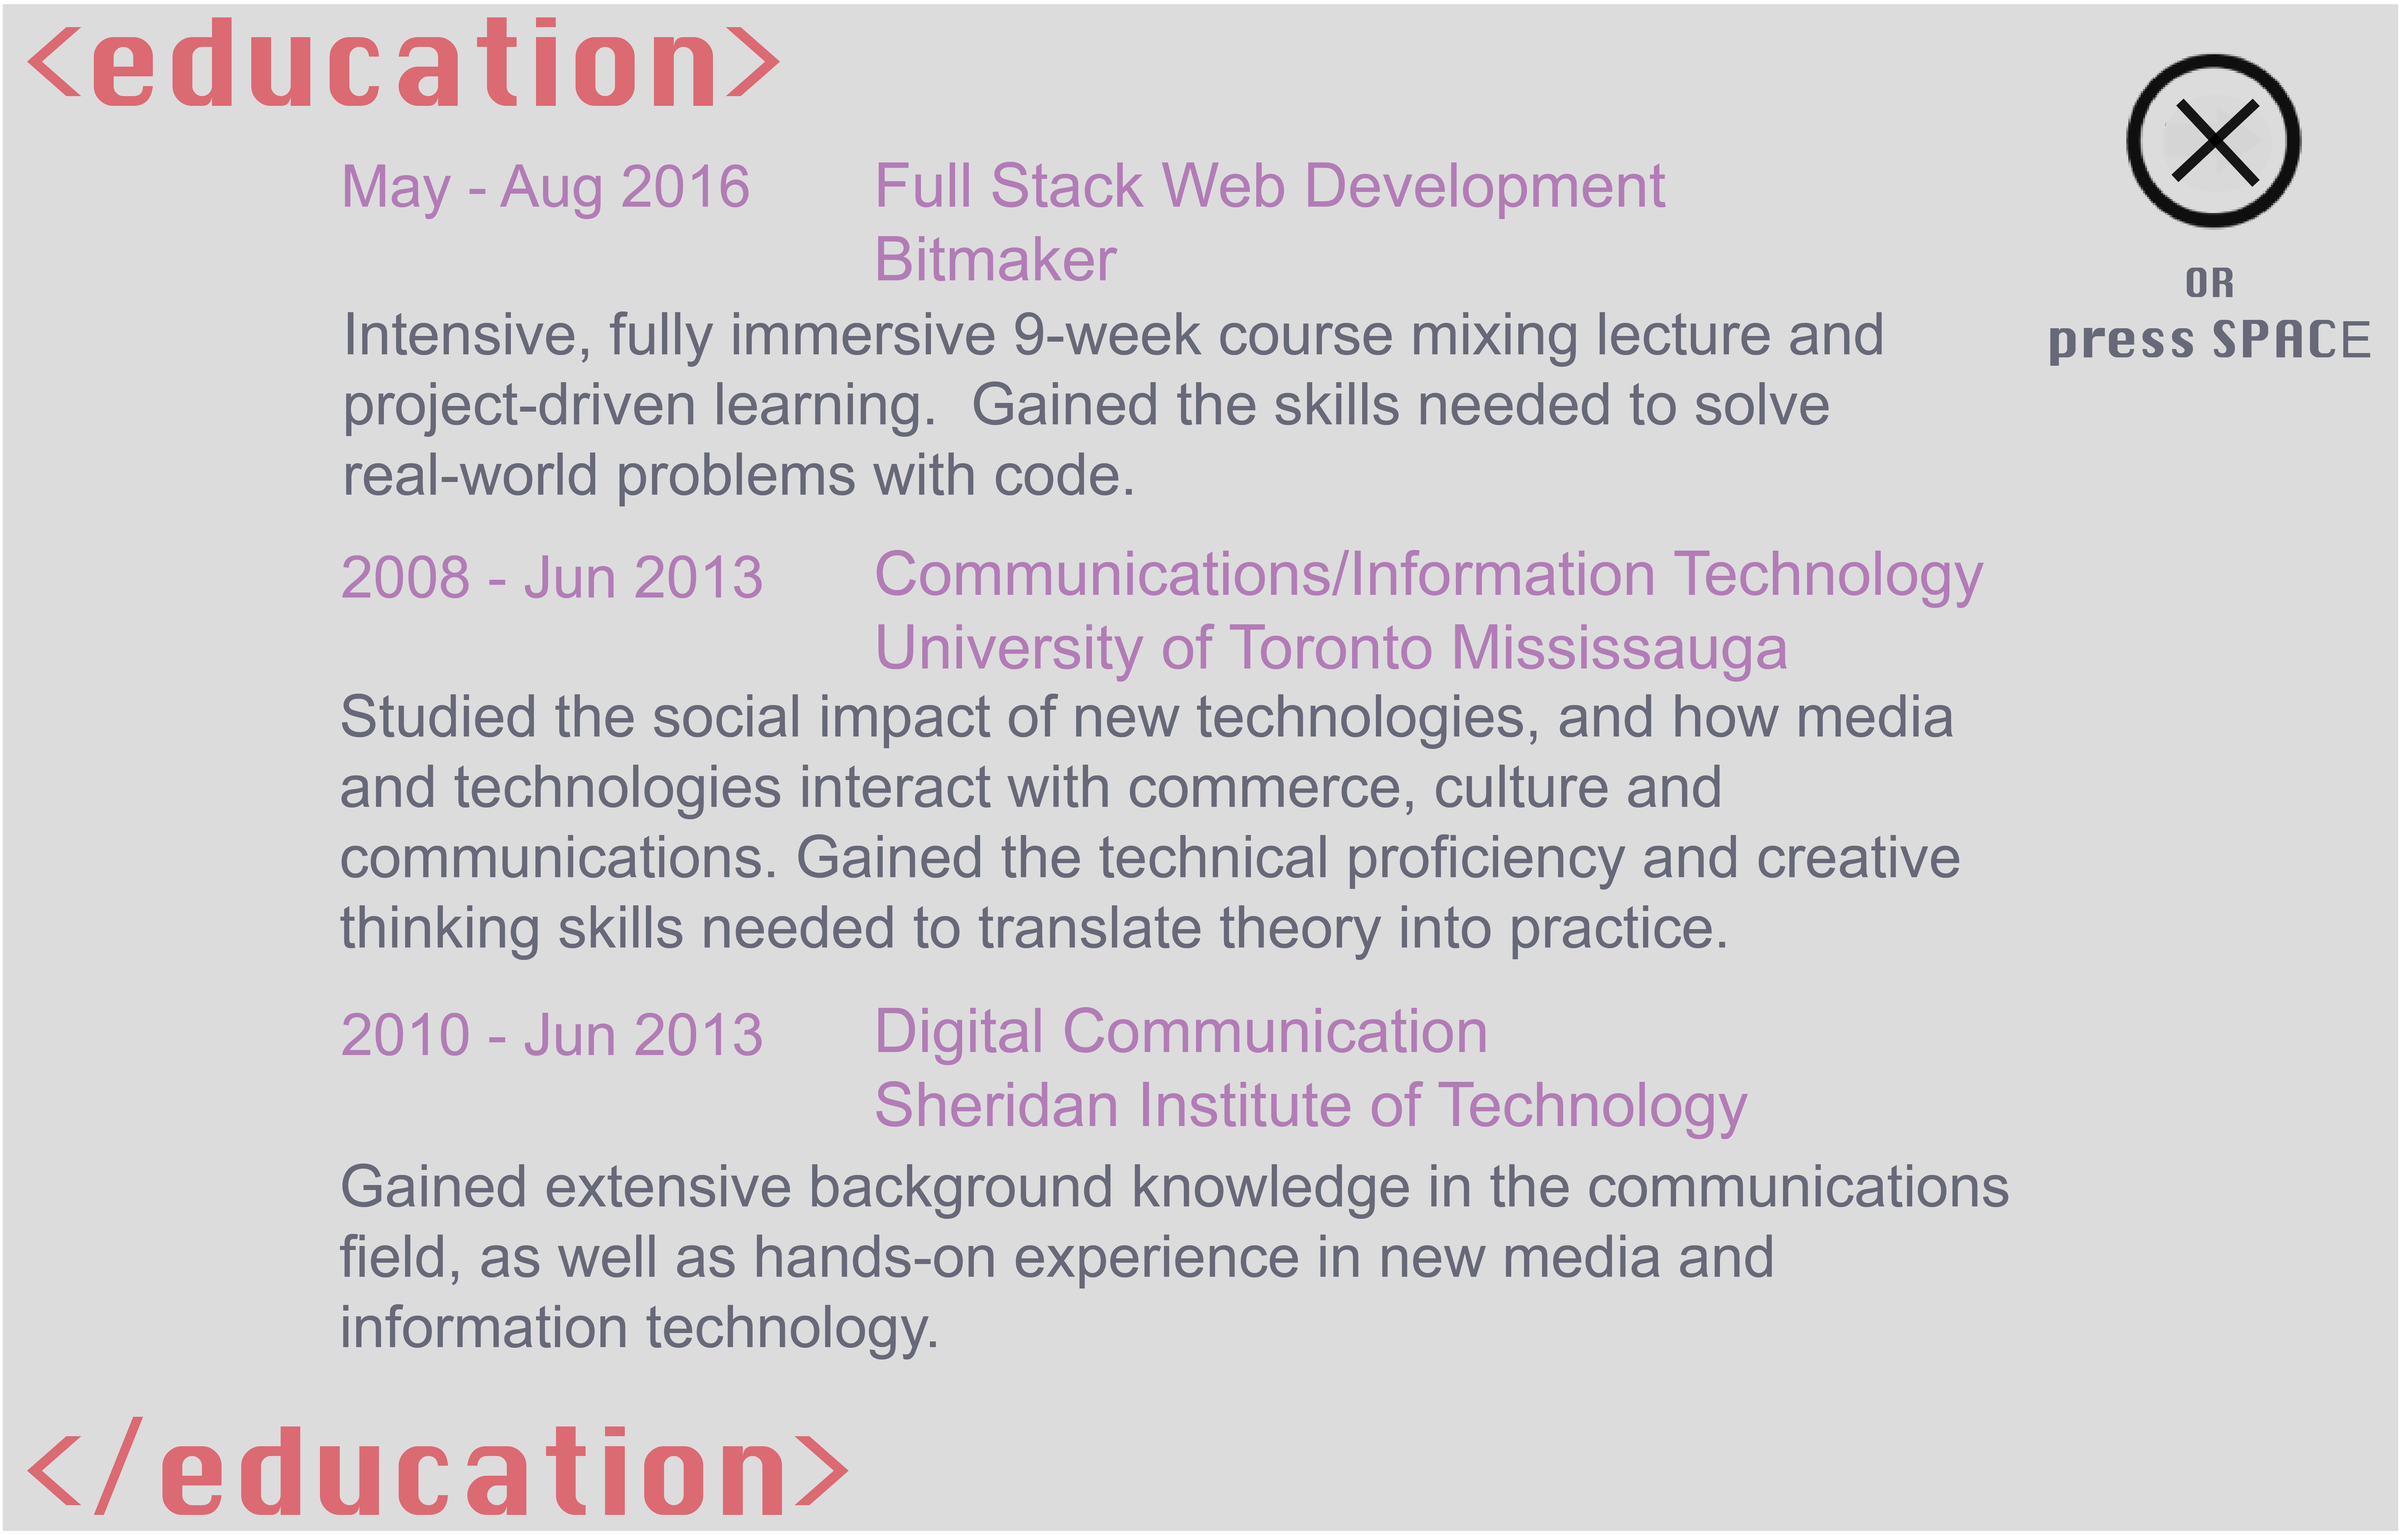
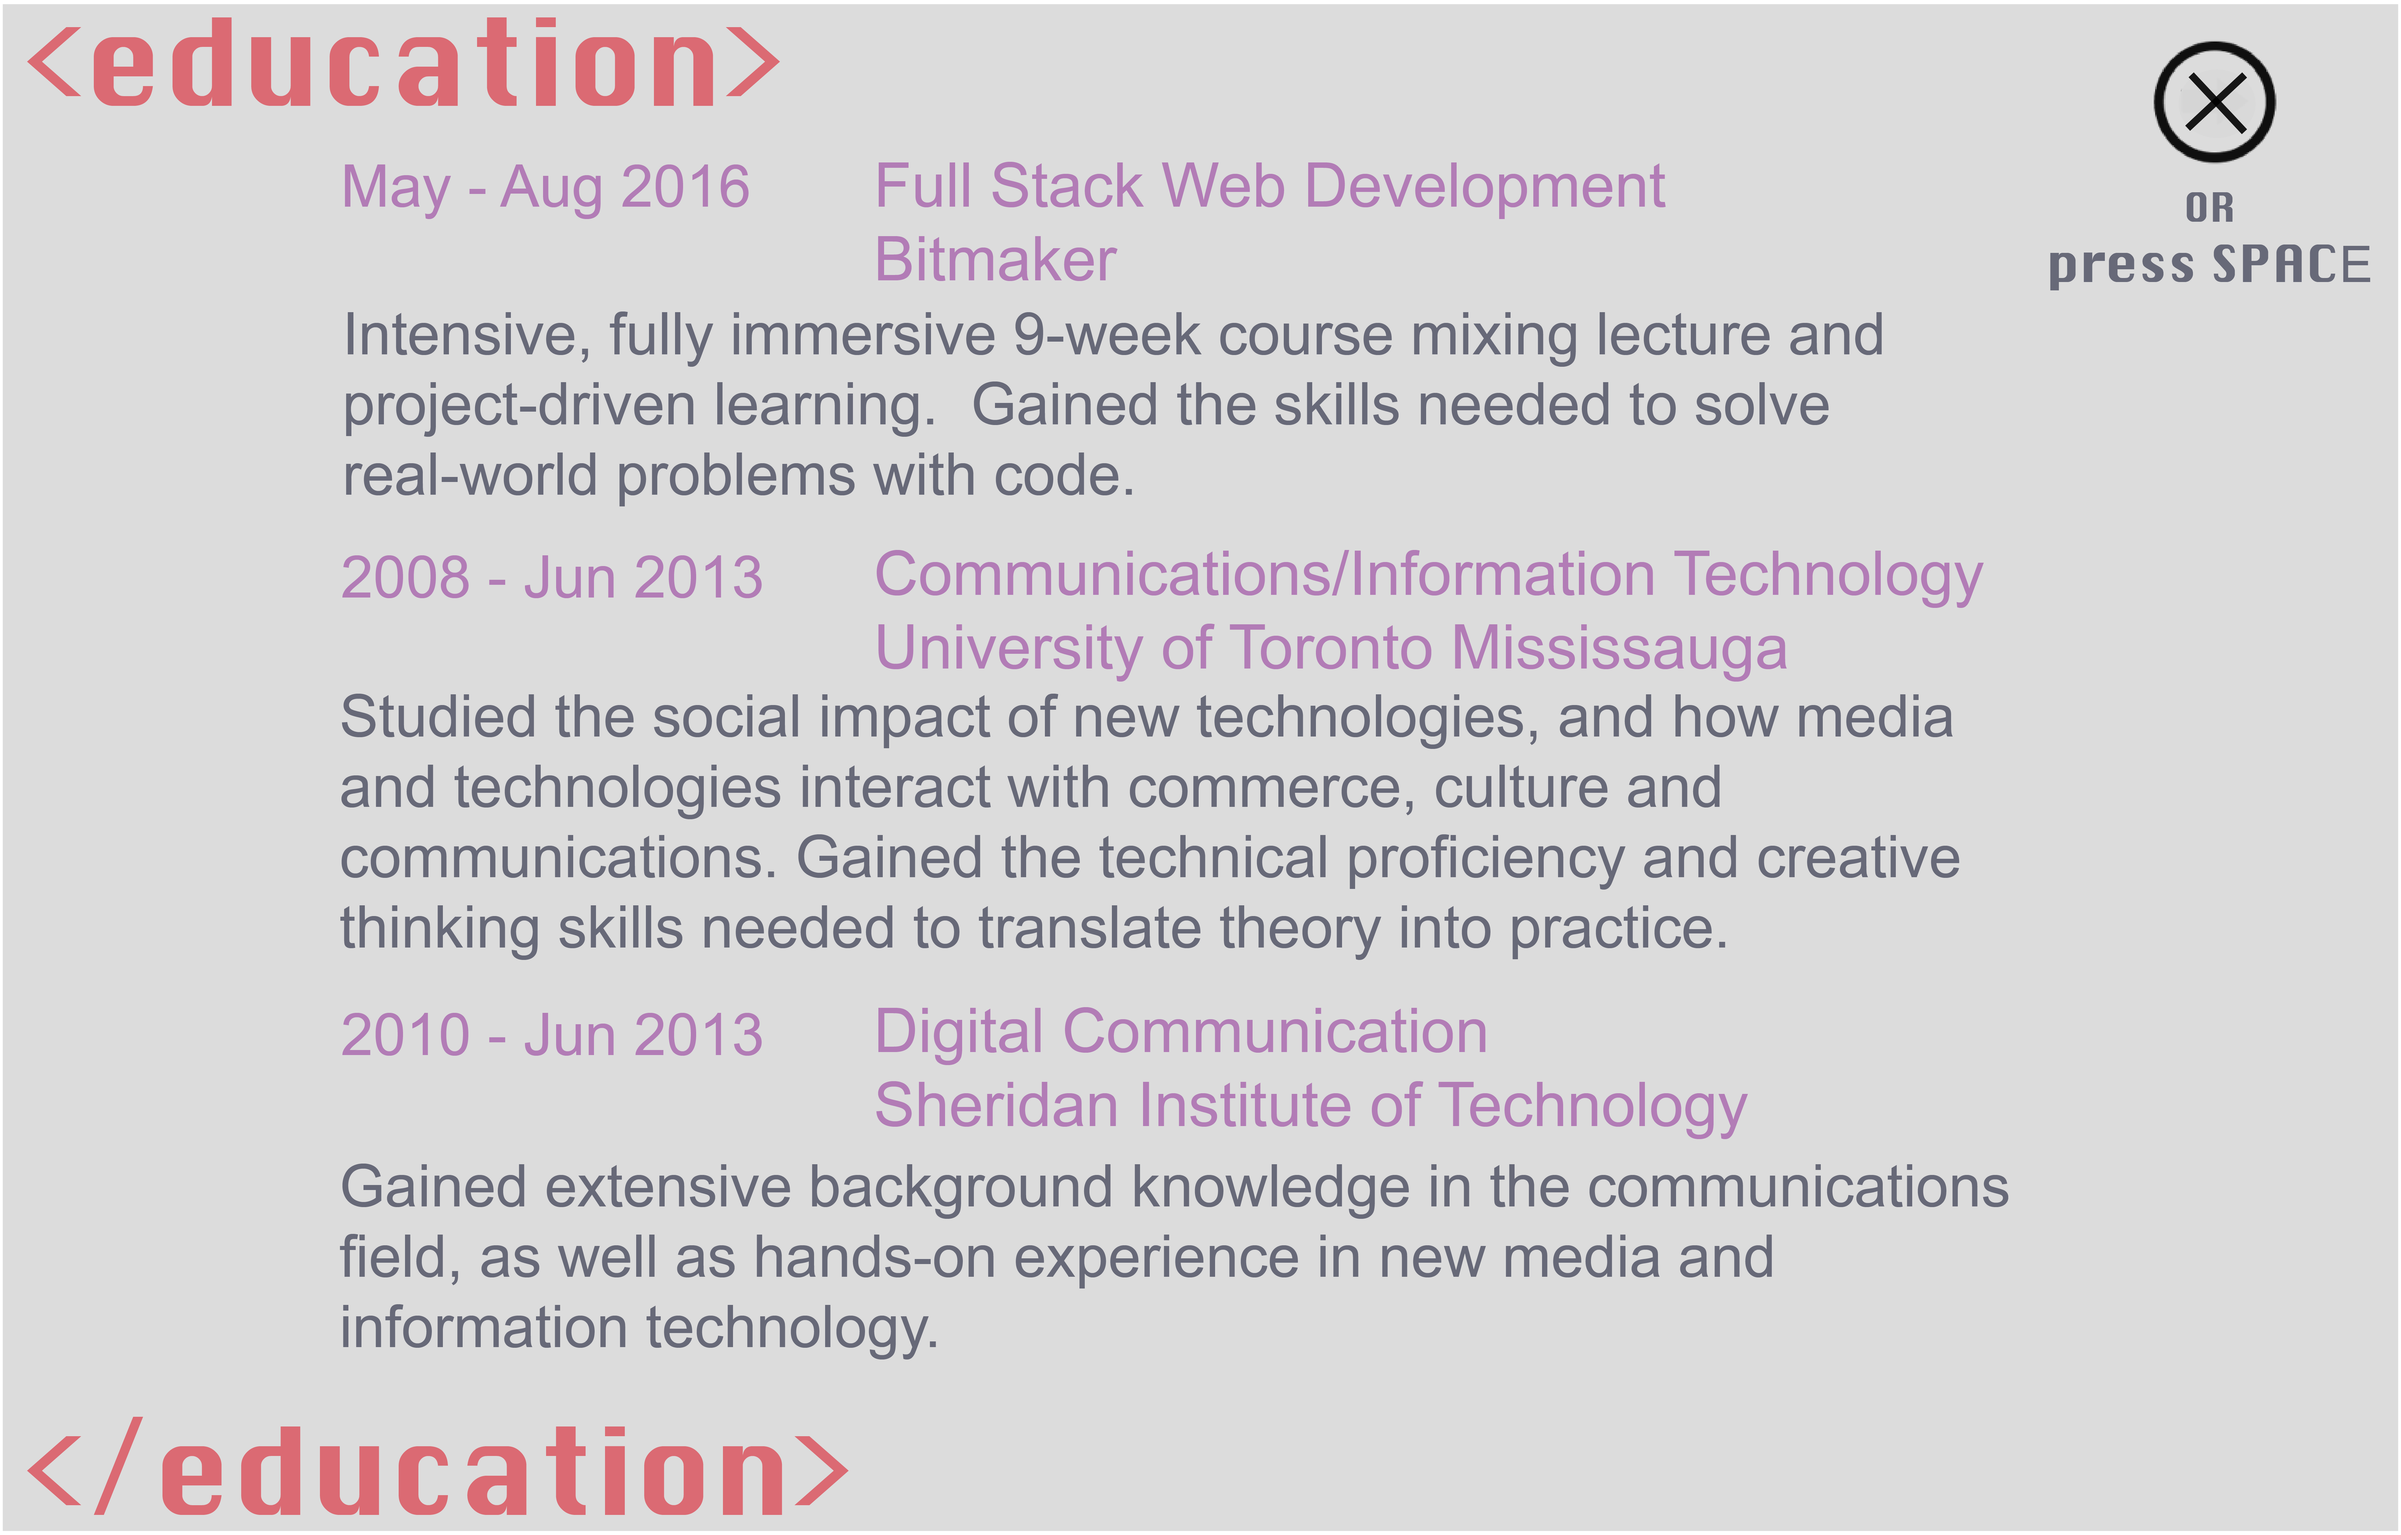
Added Experience, Summary, and Projects Modals

Changed region(s): [[0.8401, 0.0312, 0.9957, 0.2496]]

diff --git a/script.js b/script.js
@@ -140,6 +140,9 @@ educationModal.src = 'images/education_modal.png';
 var experienceModal = document.createElement('img');
 experienceModal.src = 'images/experience_modal.png';
 
+var summaryModal = document.createElement('img');
+summaryModal.src = 'images/summary_modal.png';
+
 //Event Listener for Key Up and Down
 document.addEventListener("keydown", keyDownHandler, false);
 document.addEventListener("keyup", keyUpHandler, false);
@@ -320,10 +323,16 @@ function drawLinksFishLeft() {
   ctx.drawImage(linksLeft,linksX,linksY, 210, 110);
 };
 function drawSkillsModal() {
-  ctx.drawImage(skillsModal,canvas.width/4, canvas.height/2.9, skillsModal.width/9.4, skillsModal.height/9.4)
+  ctx.drawImage(skillsModal,canvas.width/4, canvas.height/2.87, skillsModal.width/9.4, skillsModal.height/9.4)
 };
 function drawEducationModal() {
-  ctx.drawImage(educationModal,canvas.width/4, canvas.height/2.9, educationModal.width/9.4, educationModal.height/9.4)
+  ctx.drawImage(educationModal,canvas.width/4, canvas.height/2.87, educationModal.width/9.4, educationModal.height/9.4)
+};
+function drawExperienceModal() {
+  ctx.drawImage(experienceModal,canvas.width/4, canvas.height/2.87, educationModal.width/9.4, educationModal.height/9.4)
+};
+function drawSummaryModal() {
+  ctx.drawImage(summaryModal,canvas.width/4, canvas.height/2.87, educationModal.width/9.4, educationModal.height/9.4)
 };
 
 
@@ -489,19 +498,23 @@ function draw() {
       experienceY = hookY - 50;
     }
     else if (experienceY < 287.13){
-
-      alert("EXPERIENCE FISH CAUGHT, THIS WILL SOON BE A MODAL WINDOW WITH INFO");
-      exHooked = false;
-      upPressed = false;
-      experienceX = 380;
-      experienceY = 440;
-      if (experienceGoRight == true){
-        exX = 0.25;
-        exY = 0.4;
-      }
-      else {
-        exX = -0.5;
-        exY = -0.4;
+      if (exHooked == true && experienceY < 287.13) {
+        drawExperienceModal();
+        if (spacePressed || leftPressed || rightPressed || downPressed){
+          upPressed = false;
+          experienceX = 380;
+          experienceY = 440;
+          if (experienceGoRight == true){
+            exX = 0.25;
+            exY = 0.4;
+          }
+          else {
+            exX = -0.5;
+            exY = -0.4;
+          };
+          spacePressed = false;
+          exHooked = false;
+        };
       };
     };
   }
@@ -517,18 +530,23 @@ function draw() {
       summaryY = hookY - 50;
     }
     else if (summaryY < 287.13){
-      alert("SUMMARY FISH CAUGHT, THIS WILL SOON BE A MODAL WINDOW WITH INFO");
-      suHooked = false;
-      upPressed = false;
-      summaryX = 680;
-      summaryY = 370;
-      if (summaryGoRight == true){
-        suX = 0.275;
-        suY = 0.17;
-      }
-      else {
-        suX = -0.275;
-        suY = -0.17;
+      if (suHooked == true && summaryY < 287.13) {
+        drawSummaryModal();
+        if (spacePressed || leftPressed || rightPressed || downPressed){
+          upPressed = false;
+          summaryX = 680;
+          summaryY = 370;
+          if (summaryGoRight == true){
+            suX = 0.275;
+            suY = 0.17;
+          }
+          else {
+            suX = -0.275;
+            suY = -0.17;
+          };
+          spacePressed = false;
+          suHooked = false;
+        };
       };
     };
   }
